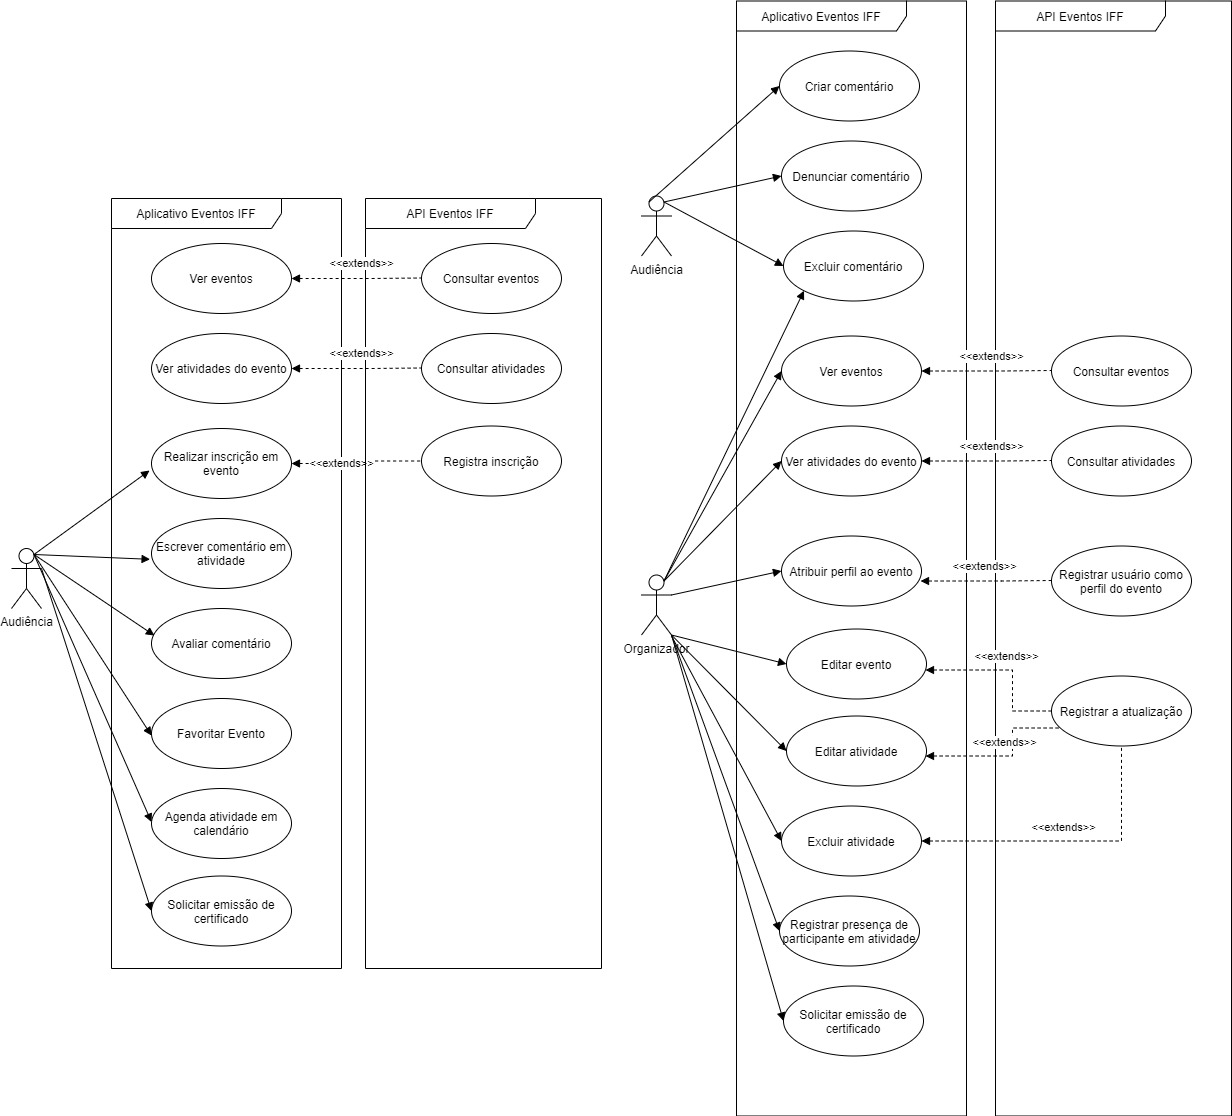
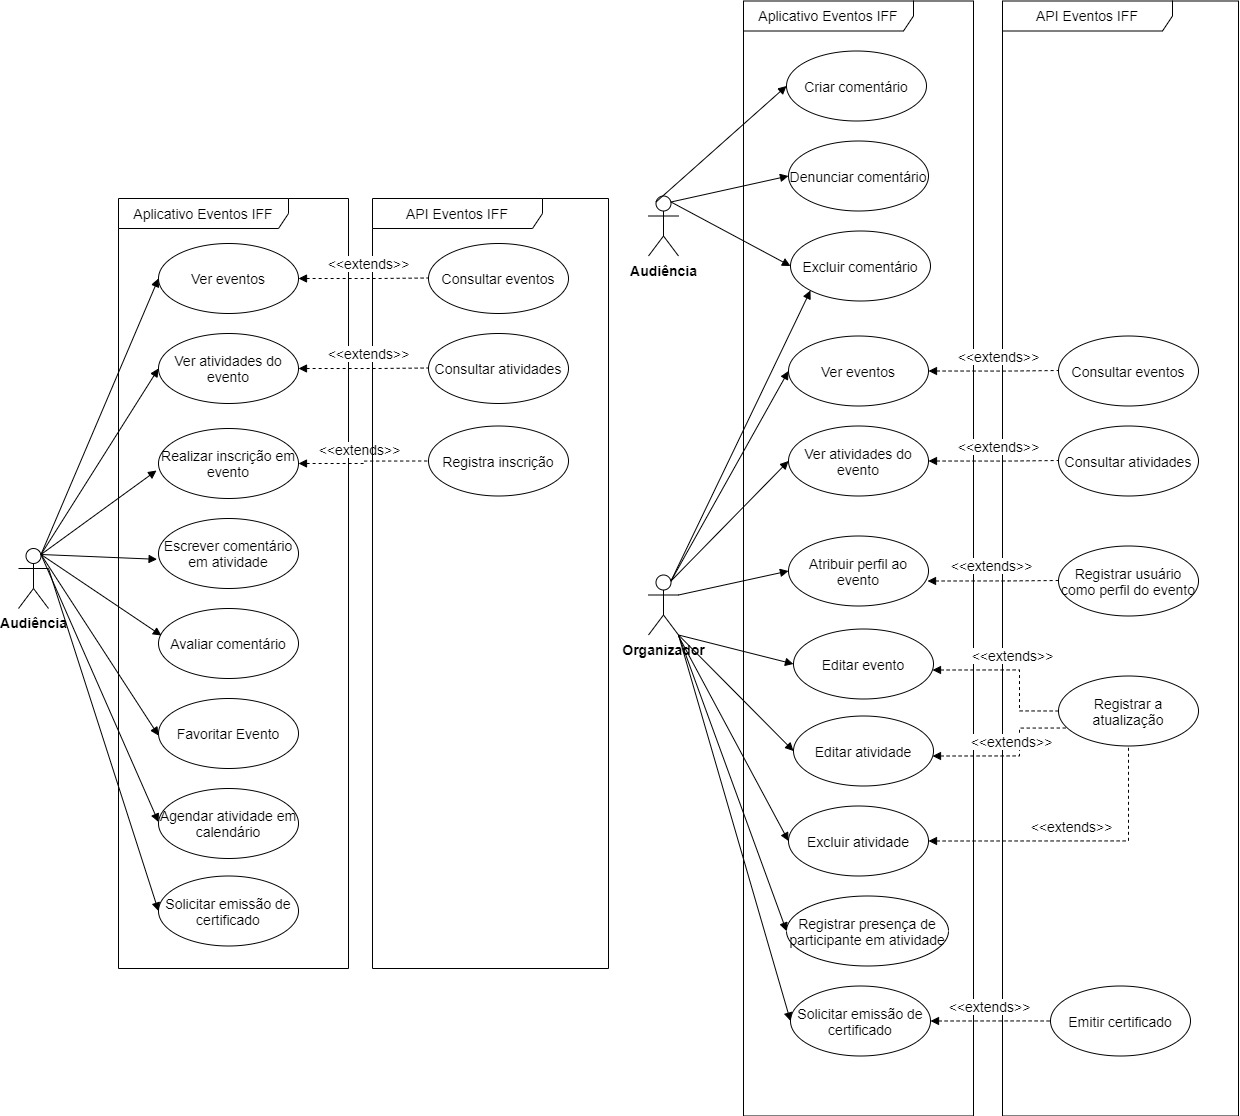
Reviewing the text

diff --git a/secoes/capitulo03.tex b/secoes/capitulo03.tex
@@ -1,6 +1,6 @@
 \chapter{Análise do Problema}
 
-Este capítulo tem como objetivo fazer uma análise e contextualização dos problemas descritos por esse trabalho. Na seção 3.1 é abordado sobre o conceito de evento acadêmico e seus desafios atuais. Na seção 3.2 é descrito e comparado algumas soluções presentes no mercado para gestão de eventos. Na seção 3.3 é apresentada a solução proposta por esse trabalho para auxílio na gestão de eventos da plataforma Eventos IFF. Por fim, na seção 3.4 é apresentado diagramas descrevendo o cenário do ciclo de vida dos eventos na plataforma Eventos IFF.
+Este capítulo tem como objetivo fazer uma análise e contextualização dos problemas descritos por este trabalho. Na seção 3.1 é abordado sobre o conceito de evento acadêmico e seus desafios atuais. Na seção 3.2 é descrito e comparado algumas soluções presentes no mercado para gestão de eventos. Na seção 3.3 é descrita a solução proposta por esse trabalho para auxílio na gestão de eventos da plataforma Eventos IFF. Por fim, na seção 3.4 é apresentado diagramas descrevendo o cenário do ciclo de vida dos eventos na plataforma Eventos IFF.
 
 \section{Gestão de eventos acadêmicos}
 
@@ -8,38 +8,38 @@ Os eventos científicos ou acadêmicos são eventos onde ocorrem encontros entre
 
 Esses eventos podem ser compostos por diversas atividades, como: congressos, convenções, \textit{workshops}, fóruns, painéis, entre outras atividades. Além disso, em geral, os eventos acadêmicos possuem uma comissão organizadora \cite{araujo}.
 
-Com o passar dos anos, os eventos acadêmicos passaram a ter maior visibilidade através do uso da internet, visto que antes dessa evolução, esses eventos eram apenas reconhecidos nos ambientes acadêmicos institucionalizados nas universidades \cite{araujo}. Mediante o exposto, os organizadores desses eventos passam por desafios em conseguir administrar os dados gerados antes, durante e depois do evento. Esses dados consistem, por exemplo, no registro da presença de um aluno em determinada atividade, o que é de extrema importância para a gerar o certificado de participação do aluno.
+Com o passar dos anos, os eventos acadêmicos passaram a ter maior visibilidade através do uso da internet, visto que antes dessa evolução, esses eventos eram apenas reconhecidos nos ambientes acadêmicos institucionalizados nas universidades \cite{araujo}. Mediante o exposto, os organizadores desses eventos passam por desafios em conseguir administrar os dados gerados antes, durante e depois do evento. Esses dados consistem, por exemplo, no registro da presença de um aluno em determinada atividade, o que é de extrema importância para gerar o certificado de participação do aluno.
 
 \section{Soluções no mercado}
 
 No mercado existem algumas plataformas e aplicativos móveis que trazem soluções para gestão de eventos, cada um atendendo a critérios como: divulgação, administração de participantes, registro de presença, entre outras funcionalidades. A seguir é listada algumas das soluções mais conhecidas e utilizadas no mercado para critério de comparação e análise deste trabalho.
 
-\subsection{Doity}
+\subsection{\textit{Doity}}
 
-Doity é uma plataforma que oferece várias funções para gerenciamento de eventos, ou seja, desde a etapa de divulgação até a emissão de certificados. Em seu \textit{site} é informado que a Doity foi utilizada em mais 100 mil eventos presentes em mais de 1500 cidades. 
+\textit{Doity} é uma plataforma que oferece várias funções para gerenciamento de eventos, ou seja, desde a etapa de divulgação até a emissão de certificados. Em seu \textit{site} é informado que a \textit{Doity} foi utilizada em mais 100 mil eventos presentes em mais de 1500 cidades. 
 
 A plataforma permite realizar eventos onde a inscrição é gratuita, sem realizar nenhum tipo de cobrança pelo uso da ferramenta. A cobrança é feita quando o evento realiza inscrições pagas, onde é cobrado 10\% do valor da inscrição como taxa.
 
-No \textit{site} da plataforma é destacada as principais soluções que a Doity proporciona. Abaixo é listado essas funcionalidades:
+No \textit{site} da plataforma é destacada as principais soluções que a \textit{Doity} proporciona. Abaixo é listado essas funcionalidades:
 
 \begin{itemize}
     \item \textit{Site} do evento: é possível realizar a criação de uma página \textit{web} com as ferramentas da plataforma, onde o usuário consegue customizar o conteúdo, como textos, imagens e \textit{design}.
     \item Inscrições: o usuário pode realizar a inscrição no evento. Eventos onde tenha algum valor na inscrição, ele pode estar realizando o pagamento via cartão de crédito ou boleto bancário pelo \textit{site}.
     \item Credenciamento: pela plataforma é possível gerar crachás customizáveis para distribuir para os participantes. Através do crachá é possível realizar o credenciamento através do aplicativo móvel. O credenciamento envolve realizar registro de entrada e saída do participante na atividade.
     \item Inscrições em atividades: o participante pode se inscrever em cada atividade separadamente. Com isso, pela interface de gerenciamento, o organizador poderá ter um controle maior sobre as vagas nas determinadas atividades.
-    \item Certificados: o organizador pode emitir certificados customizáveis pela plataforma e enviar por e-mail para os participantes, além de poder imprimir. Os certificados emitidos recebem um código de validação, que podem ser usados na plataforma da Doity para verificar a veracidade do certificado.
-    \item Trabalhos científicos: a Doity oferece uma área onde o organizador pode criar um formulário customizável para envio de trabalhos científicos. Além disso, ele pode definir a forma que o trabalho poderá ser avaliado, como os critérios de avaliação e o modo de visualização das notas.
+    \item Certificados: o organizador pode emitir certificados customizáveis pela plataforma e enviar por \textit{e-mail} para os participantes, além de poder imprimir. Os certificados emitidos recebem um código de validação, que podem ser usados na plataforma da \textit{Doity} para verificar a veracidade do certificado.
+    \item Trabalhos científicos: a \textit{Doity} oferece uma área onde o organizador pode criar um formulário customizável para envio de trabalhos científicos. Além disso, ele pode definir a forma que o trabalho poderá ser avaliado, como os critérios de avaliação e o modo de visualização das notas.
 \end{itemize}
 
-No \textit{site} da Doity contém uma área onde é possível procurar eventos cadastrados na plataforma, podendo filtrar por área, Estado, período do dia e modalidade do evento. Essa funcionalidade contribui na divulgação e procura de eventos.
+No \textit{site} da \textit{Doity} contém uma área onde é possível procurar eventos cadastrados na plataforma, podendo filtrar por área, Estado, período do dia e modalidade do evento. Essa funcionalidade contribui na divulgação e procura de eventos.
 
-Quanto à quantidade de participantes que um evento pode ter inscrito pela plataforma da Doity, para eventos onde tem valor de cobrança na inscrição, a quantidade de participantes é ilimitada. No entanto, para eventos com inscrição gratuita, existe um limite de até 3000 participantes. 
+Quanto à quantidade de participantes que um evento pode ter inscrito pela plataforma da \textit{Doity}, para eventos onde tem valor de cobrança na inscrição, a quantidade de participantes é ilimitada. No entanto, para eventos com inscrição gratuita, existe um limite de até 3000 participantes. 
 
 \subsection{Sympla}
 
 A Sympla também oferece soluções para cada etapa da jornada do evento. No seu painel de controle, a plataforma conta com uma interface gráfica com várias informações em tempo real para auxiliar o organizador durante o evento, o que se torna um diferencial.
 
-Em seu \textit{site}, a Sympla informa que foram mais de 600 mil eventos realizados utilizando a ferramenta em mais de 2500 cidades diferentes. Quanto ao custo, para eventos com inscrições gratuitas, não é cobrado algum valor, e o organizador do evento tem acesso a todas as funcionalidades da plataforma. Para eventos com valor na inscrição, a Sympla cobra 10% do valor do ingresso como taxa.
+Em seu \textit{site}, a Sympla informa que foram mais de 600 mil eventos realizados utilizando a ferramenta em mais de 2500 cidades diferentes. Quanto ao custo, para eventos com inscrições gratuitas, não é cobrado algum valor, e o organizador do evento tem acesso a todas as funcionalidades da plataforma. Para eventos com valor na inscrição, a Sympla cobra 10\% do valor do ingresso como taxa.
 
 Abaixo é listado as principais funcionalidades destacadas pela Sympla:
 
@@ -53,7 +53,7 @@ Abaixo é listado as principais funcionalidades destacadas pela Sympla:
 
 Através do \textit{site} da Sympla é possível encontrar os eventos cadastrados na plataforma, podendo filtrar por local e categorias, por exemplo. Não foi encontrado em suas funcionalidades a possibilidade de cadastrar atividades dentro do evento, o que impossibilita registrar presença e gerar certificado por atividade, apenas de todo o evento.
 
-\subsection{Eventbrite}
+\subsection{\textit{Eventbrite}}
 
 \textit{Eventbrite} oferece serviço para gerenciamento de eventos para vários países. Em seu \textit{site}, é informado que a \textit{Eventbrite} foi usada em 3 milhões de eventos em mais de 170 países durante o ano de 2017.
 
@@ -109,7 +109,7 @@ Na Figura \ref{fig:caso-de-uso} é ilustrado através do diagrama de uso as func
     \legend{Fonte: elaborado pelos autores}
 \end{figure}
 
-Na Figura \ref{fig:digrama-classe} é apresentado o diagrama de classe conceitual, onde é ilustrado as principais entidades que compõem o aplicativo Eventos IFF e suas relações. Também é apresentado os 4 papeis que o usuário pode ter em relação a um evento, que são: audiência, organizador, palestrante e voluntário. Cada papel possui as funcionalidades que podem executar no aplicativo.
+Na Figura \ref{fig:digrama-classe} é apresentado o diagrama de classe conceitual, onde é ilustrado as principais entidades que compõem o aplicativo Eventos IFF e suas relações. Também é apresentado os 4 papeis que o usuário pode ter em relação a um evento, que são: audiência, organizador, palestrante e voluntário. Cada papel possui as funcionalidades que os usuários podem executar no aplicativo.
 
 \begin{figure}[H]
     \centering

diff --git a/secoes/capitulo05.tex b/secoes/capitulo05.tex
@@ -20,11 +20,23 @@ Além do aplicativo, foi desenvolvida uma \textit{Application Programming Interf
 
 O registro era feito na entrada e saída da atividade, e a informação da data e hora do registro era usada para calcular posteriormente o tempo em que o participante ficou na atividade, ajudando na validação para a geração do certificado. Além de registrar utilizando a API, também era gerado um registro dessas presenças em um arquivo \textit{Comma-Separated Values} (CSV) no dispositivo do usuário, com a finalidade de haver um \textit{backup} em caso de perdas no banco de dados.
 
-O aplicativo era composto por duas telas. Na primeira tela, haviam dois campos, um de texto para o voluntário informar seu nome, e outro campo para o voluntário selecionar qual atividade vai ser registrada a presença. Abaixo haviam dois botões, um para prosseguir para a tela de leitura de \textit{QRCode} para registrar a presença do participante. O segundo botão abria o leitor de \textit{QRcode} do dispositivo \textit{Android} para registrar a presença de outro voluntário no dia do evento.
+O aplicativo era composto por duas telas. Na primeira tela, haviam dois campos, um de texto para o voluntário informar seu nome, e outro campo para o voluntário selecionar qual atividade vai ser registrada a presença. Abaixo haviam dois botões, um para prosseguir para a tela de leitura de \textit{QRCode} para registrar a presença do participante. O segundo botão abria o leitor de \textit{QRcode} do dispositivo \textit{Android} para registrar a presença de outro voluntário no dia do evento. Na Figura \ref{fig:mvp1} é apresentada esta tela.
 
-Na segunda tela havia apenas um botão, ao qual abria o leitor de \textit{QRCode} para registrar a presença do participante. O \textit{QRCode} lido estava nos crachás de identificação dos participantes distribuídos durante o evento. No \textit{QRCode} contido nos crachás, havia a informação do nome do participante e CPF, o qual era capturado pelo aplicativo.
+\begin{figure}[H]
+    \centering
+    \caption{Tela inicial do MVP} \includegraphics[scale=0.7]{figuras/mvp1.png}
+    \label{fig:mvp1}
+    \legend{Fonte: elaborado pelos autores}
+\end{figure}
 
-<colocar imagem das telas aqui>
+Na segunda tela havia apenas um botão, ao qual abria o leitor de \textit{QRCode} para registrar a presença do participante (Figura \ref{fig:mvp2}). O \textit{QRCode} lido estava nos crachás de identificação dos participantes distribuídos durante o evento. No \textit{QRCode} contido nos crachás, havia a informação do nome do participante e CPF, o qual era capturado pelo aplicativo.
+
+\begin{figure}[H]
+    \centering
+    \caption{Tela de leitura de \textit{QRCode} de credenciamento do MVP} \includegraphics[scale=0.7]{figuras/mvp2.png}
+    \label{fig:mvp2}
+    \legend{Fonte: elaborado pelos autores}
+\end{figure}
 
 \section{Análise do resultado da execução em ambiente real}
 
@@ -37,10 +49,10 @@ Esse MVP foi utilizado por 12 discentes que formavam parte do comitê organizado
     \item O arquivo de \textit{backup} local foi de fácil acesso?
     \item Aplicação apresentou algum tipo de falha?
     \item Caso apresentou falha, descreva.
-    \item Sugestões de melhorias
+    \item Sugestões de melhorias.
 \end{itemize}
 
-Com as respostas obtidas pelo formulário, foi observado que o \textit{layout} das telas foram bem aceito, com 100\% das respostas indicando que eram intuitivas e de fácil utilização. Não foi indicado nenhuma falha na utilização do aplicativo. Como sugestões, foi informado uma melhoria na funcionalidade de \textit{backup} e colocar mais imagens no aplicativo.
+Com as respostas obtidas pelo formulário, foi observado que o \textit{layout} das telas foram bem aceito, com 100\% das respostas indicando que eram intuitivas e de fácil utilização. Não foi indicado nenhuma falha na utilização do aplicativo. Como sugestões, foi informado uma melhoria na funcionalidade de \textit{backup} e colocar mais imagens no aplicativo. O formulário utilizado para a pesquisa de opinião está disponível no Apêndice \ref{apendice1}, assim como o resultado obtido pelo formulário, onde se encontra no Apêndice \ref{apendice2}.
 
 \section{Desenho da estrutura e funcionalidades}
 

diff --git a/secoes/capitulo01.tex b/secoes/capitulo01.tex
@@ -5,7 +5,7 @@ Com o crescente avanço da formação acadêmica e das universidades, os eventos
 Em geral, os eventos acadêmicos são compostos por atividades como: congressos, seminários, cursos, mesas-redondas, entre outros, gerando assim grande fluxo de alunos durante essas atividades, e devido à maioria gerar certificados de participação, a presença do aluno deve ser registrada. Com isso, o gerenciamento do evento sem um software ou aplicação resulta em um evento com mais riscos e gargalos. 
 
 Atualmente, há diversas ferramentas digitais para controle de eventos em geral. Umas delas são as redes sociais, como \textit{Facebook}, que facilitam a divulgação e comunicação com o público alvo, porém são superficiais quando o assunto é gestão. Contudo, algumas plataformas \textit{web} e móveis foram criadas com esse tipo de finalidade, e oferecem funcionalidades para administração de eventos, como \textit{Doity} e \textit{Eventbrite}. 
-Conforme a aumento da demanda de eventos acadêmicos, o Instituto Federal Fluminense (IFF) se viu necessitado de uma plataforma para centralizar a administração deles, sendo assim foi desenvolvido o \textit{website} Eventos IFF.
+Conforme o aumento da demanda de eventos acadêmicos, o Instituto Federal Fluminense (IFF) se viu necessitado de uma plataforma para centralizar a administração deles, sendo assim foi desenvolvido o \textit{website} Eventos IFF.
 
 \section{Objetivos}
 \subsection{Objetivos Gerais}
@@ -24,9 +24,9 @@ Dentre os objetivos específicos do trabalho de conclusão, destacam-se:
 
 \section{Justificativa}
 
-Apesar da existência de aplicações para gestão de eventos, as mesmas têm suas principais funcionalidades monetizadas, tornando custosas suas utilizações. Dessa forma, visando contribuir com o IFF, foi decidido realizar o desenvolvimento de um projeto para uma aplicação focada no gerenciamento de eventos acadêmicos utilizando tecnologia móvel e baseando-se na estrutura de organização da plataforma web Eventos IFF.
+Apesar da existência de aplicações para gestão de eventos, as mesmas têm suas principais funcionalidades monetizadas, tornando custosas suas utilizações. Dessa forma, visando contribuir com o IFF, foi decidido realizar o desenvolvimento de um projeto para uma aplicação focada no gerenciamento de eventos acadêmicos utilizando tecnologia móvel e baseando-se na estrutura de organização da plataforma \textit{web} Eventos IFF.
 
-Com base nisto espera-se que por meio desta aplicação a gestão dos eventos seja otimizada, minimizando assim os riscos e gargalos e impactando positivamente a comunidade acadêmica.
+Com base nisto espera-se que, por meio desta aplicação, a gestão dos eventos seja otimizada, minimizando assim os riscos e gargalos e impactando positivamente a comunidade acadêmica.
 
 \section{Organização da monografia}
 

diff --git a/secoes/capitulo02.tex b/secoes/capitulo02.tex
@@ -2,9 +2,9 @@
 
 \section{Firebase}
 
-\textit{Firebase} é um produto da \textit{Google} que engloba serviços para realização de  processos internos para algumas plataformas e linguagens de programação. Para aplicações que necessitam, por exemplo, de respostas rápidas para um dado modificado ou acrescentado na base dados, o Firebase se torna ideal para realização desse tipo de serviço \cite{firebase}.
+\textit{Firebase} é um produto da \textit{Google} que engloba serviços para realização de  processos internos para algumas plataformas e linguagens de programação. Para aplicações que necessitam, por exemplo, de respostas rápidas para um dado modificado ou acrescentado na base dados, o \textit{Firebase} se torna ideal para realização desse tipo de serviço \cite{firebase}.
 
-O Firebase é dividido em alguns tipos de serviços, que estão listados e detalhados a seguir.
+O \textit{Firebase} é dividido em alguns tipos de serviços, que estão listados e detalhados a seguir.
 
 \begin{itemize}
     \item \textit{Real-time Database}: Serviço de armazenamento em nuvem, onde os dados são armazenados e estruturados em formato \textit{JavaScript Object Notation} (JSON). Cada cliente é associado aos seus dados e automaticamente são sincronizados, realizando uma resposta rápida quando algum dado é atualizado \cite{firebase};
@@ -14,7 +14,7 @@ O Firebase é dividido em alguns tipos de serviços, que estão listados e detal
 
 \section{Prototipação}
 
-No processo de desenvolvimento de um sistema, é fundamental a realização de testes antes da versão ser finalizada. Quase sempre os requisitos definidos no início do projeto não atendem completamente ao usuário final, e uma mudança no \textit{software} após sua finalização pode ser muito custoso \cite{prototipacao}.
+No processo de desenvolvimento de um sistema, é fundamental a realização de testes antes da versão ser finalizada. Quase sempre os requisitos definidos no início do projeto não atendem completamente ao usuário final, e uma mudança no \textit{software} após sua finalização pode ser muito custosa \cite{prototipacao}.
 
 O ato da prototipação auxilia a enxergar os requisitos que precisam ser revisados ou até retirados do projeto. A prototipação em um projeto de desenvolvimento é uma ótima forma de comunicação entre o usuário alvo e desenvolvedor, pois provê um \textit{feedback} mais realista sobre o contexto onde o \textit{software} pretende ser utilizado \cite{prototipacao}.
 

diff --git a/secoes/capitulo07.tex b/secoes/capitulo07.tex
@@ -6,7 +6,7 @@ Com a execução da técnica de MVP em um evento acadêmico real, foi observado 
 
 Deste modo, foi possível realizar os levantamentos com um especialista da plataforma Eventos IFF, e o mesmo considerou satisfatório os resultados obtidos. A partir disso foi constatada a viabilidade do desenvolvimento de uma solução para uma ferramenta que agregasse funcionalidade e agilidade no gerenciamento de eventos da plataforma.
 
-O desenho de diagramas de uso, diagrama de classe conceitual e diagramas de arquitetura foram fundamentais para prosseguir com o desenvolvimento do protótipo de forma mais segura e assertiva, visto que esses diagramas possibilitam um entendimento mais claro do \textit{software} e seu contexto, evitando futuros imprevistos no desenvolvimento.
+O desenho de diagrama de casos de uso, diagramas de classe e diagrama de arquitetura foram fundamentais para prosseguir com o desenvolvimento do protótipo de forma mais segura e assertiva, visto que esses diagramas possibilitam um entendimento mais claro do \textit{software} e seu contexto, evitando futuros imprevistos no desenvolvimento.
 
 Paralelamente, foi visto que a técnica de prototipagem auxilia no processo de desenvolvimento de \textit{software}. A construção de um protótipo interativo coopera na visualização da solução, trazendo assim mais facilidade para o desenvolvimento das telas do \textit{software}, uma vez que a etapa visual já está desenhada. 
 

diff --git a/secoes/apendice.tex b/secoes/apendice.tex
@@ -1,0 +1,48 @@
+\chapter{Formulário para pesquisa de opinião sobre o MVP utilizado no CITI 2019}\label{apendice1}
+
+\begin{figure}[H]
+    \centering
+    \includegraphics[scale=0.35]{figuras/questionario1.jpg}
+\end{figure}
+
+\begin{figure}[H]
+    \centering
+    \includegraphics[scale=0.35]{figuras/questionario2.jpg}
+\end{figure}
+
+\begin{figure}[H]
+    \centering
+    \includegraphics[scale=0.35]{figuras/questionario3.jpg}
+\end{figure}
+
+\chapter{Resultado da pesquisa de opinião sobre o MVP utilizado no CITI 2019}\label{apendice2}
+
+\begin{figure}[H]
+    \centering
+    \includegraphics[scale=0.55]{figuras/form1.png}
+\end{figure}
+
+\begin{figure}[H]
+    \centering
+    \includegraphics[scale=0.55]{figuras/form2.png}
+\end{figure}
+
+\begin{figure}[H]
+    \centering
+    \includegraphics[scale=0.55]{figuras/form3.png}
+\end{figure}
+
+\begin{figure}[H]
+    \centering
+    \includegraphics[scale=0.55]{figuras/form4.png}
+\end{figure}
+
+\begin{figure}[H]
+    \centering
+    \includegraphics[scale=0.55]{figuras/form5.png}
+\end{figure}
+
+\begin{figure}[H]
+    \centering
+    \includegraphics[scale=0.55]{figuras/form6.png}
+\end{figure}

diff --git a/main.tex b/main.tex
@@ -257,5 +257,17 @@
 \phantompart
 \printindex
 %---------------------------------------------------------------------
+\begin{apendicesenv}
+% Imprime uma página indicando o início dos apêndices
+\partapendices
+% ----------------------------------------------------------
+% Incluir Apêndice
+% ----------------------------------------------------------
+% ----------------------------------------------------------
+% Capitulo com exemplos de comandos inseridos de arquivo externo 
+% ----------------------------------------------------------
+\include{secoes/apendice}
+
+\end{apendicesenv}
 
 \end{document}
